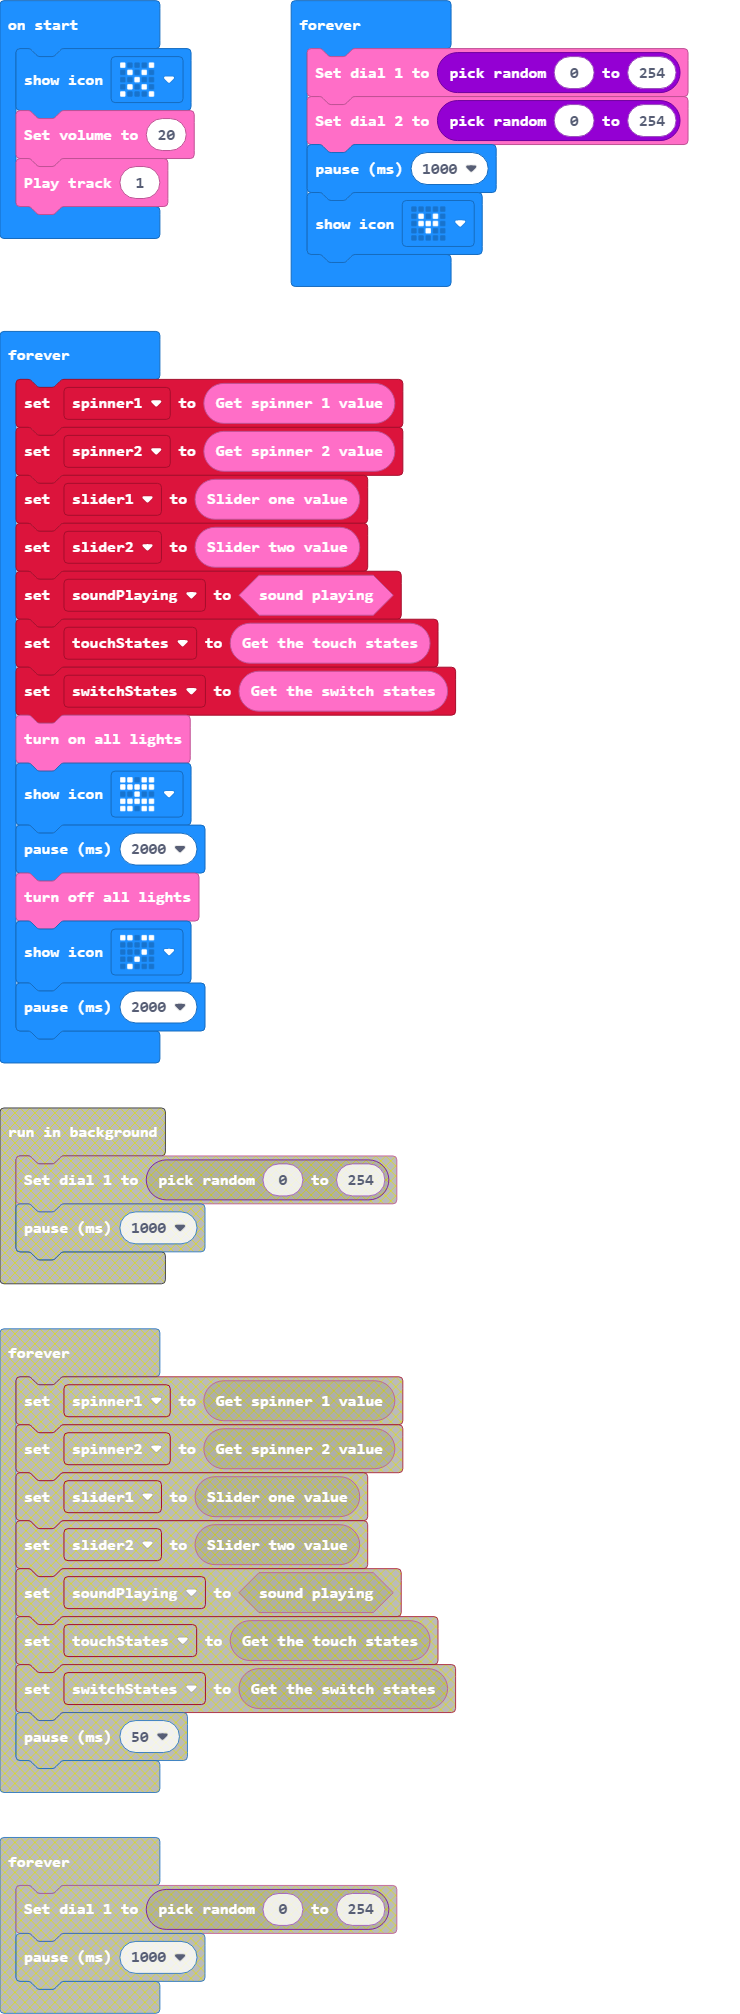
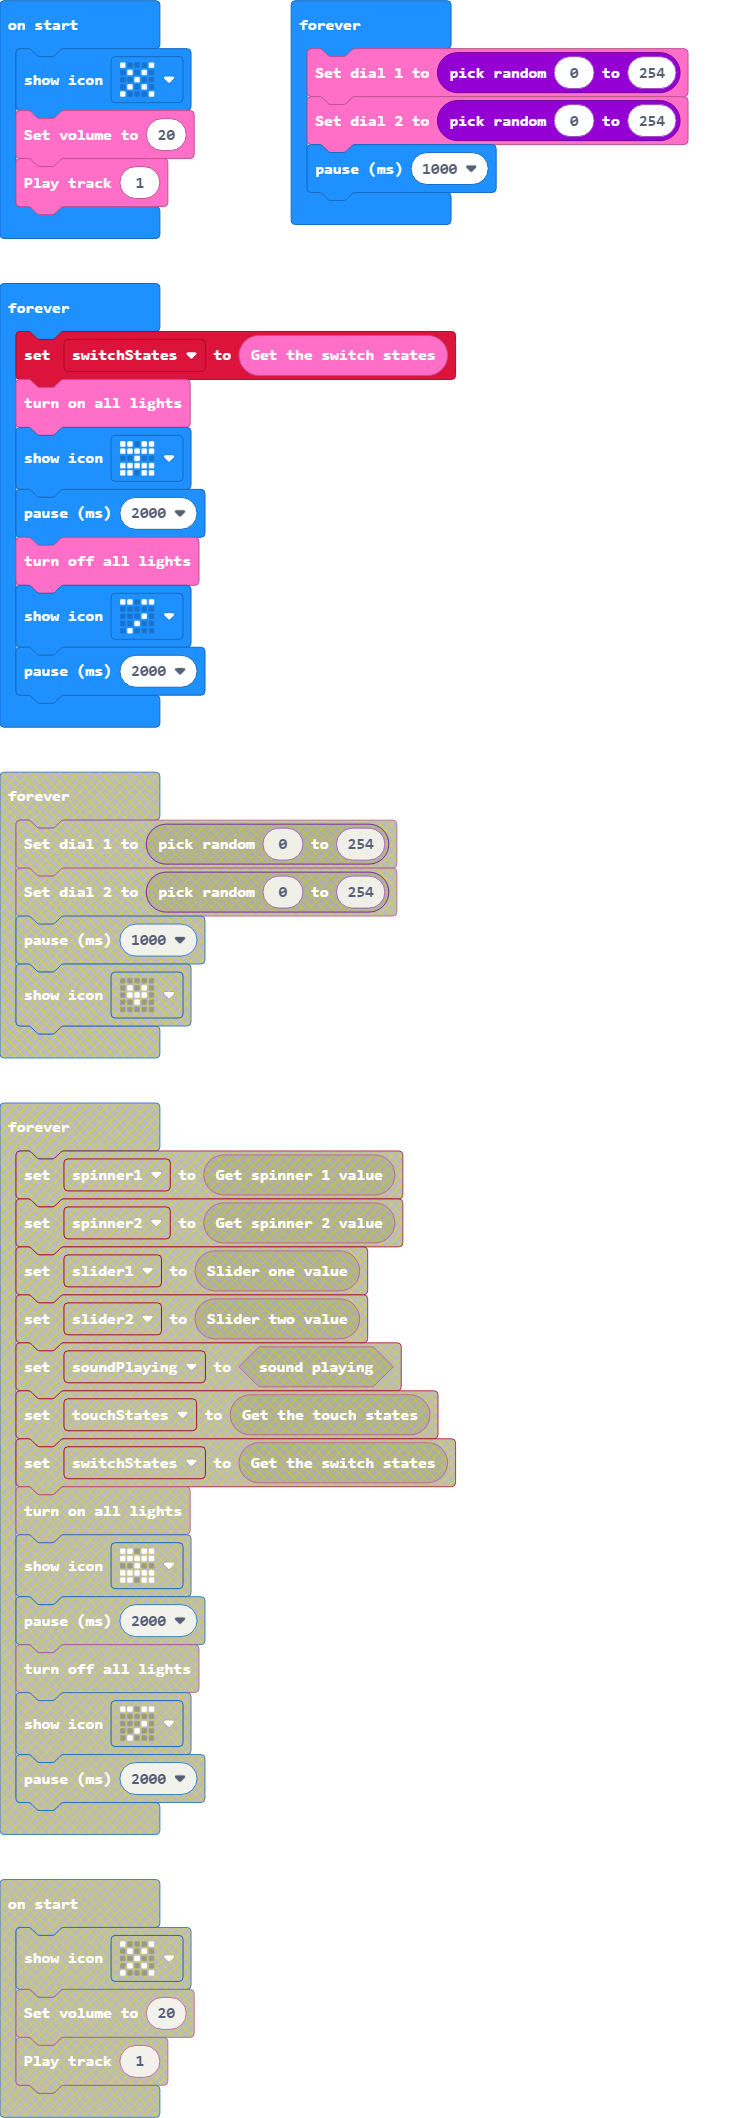
more simple

diff --git a/i2c.ts b/i2c.ts
@@ -1,7 +1,7 @@
 namespace RainbowSparkleUnicorn {
 
     const ESP32_I2C_ADDR = 4;
-    const readBufferLength = 40; //32;
+    const readBufferLength = 128; //40; //32;
 
     //i2c freq=100000
     //let currentRecievedMessage = "";
@@ -26,7 +26,7 @@ namespace RainbowSparkleUnicorn {
     //    i2cTXrateMs = TXrateMs;
     // }    
 
-    export function _sendMessage(message: string): void {             
+    export function _sendMessage(message: string): void {
 
         pins.digitalWritePin(DigitalPin.P8, 1);
         basic.pause(1);
@@ -35,44 +35,27 @@ namespace RainbowSparkleUnicorn {
 
         pins.digitalWritePin(DigitalPin.P8, 0);
         basic.pause(1);
-   }
-
-     function sendMessage(message: string): void {
-
-         let num = 0;
-         num = message.length
-         let buf2 = pins.createBuffer(num + 4);
-         let crcbuf = pins.createBuffer(num);
-         buf2[0] = 2
-         buf2[1] = num + 4
-         for (let j = 0; j <= num - 1; j++) {
-             buf2[j + 2] = message.charCodeAt(j)
-             crcbuf[j] = message.charCodeAt(j)
-         }
-         buf2[num + 2] = calcCRC8(crcbuf, num)
-         buf2[num + 3] = 4
-
-         pins.i2cWriteBuffer(ESP32_I2C_ADDR, buf2, false);
-
     }
 
-    // function checkMessageTOBEREMOVED(message: string): boolean
-    //  {
-    //     if (message.isEmpty() == true){
-    //         return false;
-    //     }
-    //     if (message.length < 3) {
-    //         return false;
-    //     }
-    //     let X = message.split(",");
-    //     let Y = X.length;
-    //      if (Y < 2){
-    //         return false;
-    //     }
-    //     return true;
-    //  }
+    function sendMessage(message: string): void {
 
-    export function _readMessage(message: string): string {   
+        let num = 0;
+        num = message.length
+        let buf2 = pins.createBuffer(num + 4);
+        let crcbuf = pins.createBuffer(num);
+        buf2[0] = 2
+        buf2[1] = num + 4
+        for (let j = 0; j <= num - 1; j++) {
+            buf2[j + 2] = message.charCodeAt(j)
+            crcbuf[j] = message.charCodeAt(j)
+        }
+        buf2[num + 2] = calcCRC8(crcbuf, num)
+        buf2[num + 3] = 4
+
+        pins.i2cWriteBuffer(ESP32_I2C_ADDR, buf2, false);
+    }
+
+    export function _readMessage(message: string): string {
 
         pins.digitalWritePin(DigitalPin.P8, 1);
         basic.pause(1);
@@ -80,47 +63,21 @@ namespace RainbowSparkleUnicorn {
         //send first
         sendMessage(message);
 
-        //pause
-        basic.pause(1);
-
-        let startIndex = 0;
         let i2cBuffer = pins.i2cReadBuffer(ESP32_I2C_ADDR, readBufferLength, false);
-
-        for (let k = 0; k <= readBufferLength; k++) {
-            // find packet start
-            if (i2cBuffer[k] == 2) {
-                startIndex = k
-            }
-        }
-
-        //let a4 = 0;
-        //let a3 = 0;
-        let a1 = 0;
-        let a2 = 0;
-
-        a1 = i2cBuffer[startIndex];
-        let contentLength = i2cBuffer[startIndex+1]-4;
-
-        //serial.writeValue("contentLength", contentLength);
-
-        let currentRecievedMessage = "";
-
-        if (contentLength > 0){
-
-            for (let l = 0; l < contentLength ; l++) {
-                a2 =  i2cBuffer[l+2] ;
-
-                if (a2 != 255 && a2 != 0){
-                    currentRecievedMessage = currentRecievedMessage + String.fromCharCode(a2);
-                }
-            }
-
-            currentRecievedMessage = currentRecievedMessage.trim();
-
-        }
 
         pins.digitalWritePin(DigitalPin.P8, 0);
         basic.pause(1);
+
+        let currentRecievedMessage = "";
+
+        for (let k = 0; k <= readBufferLength; k++) {
+
+            if (i2cBuffer[k] != 255 && i2cBuffer[k] != 0) {
+                currentRecievedMessage = currentRecievedMessage + String.fromCharCode(i2cBuffer[k]);
+            }
+        }
+
+        //serial.writeLine("currentRecievedMessage:" + currentRecievedMessage);
 
         return currentRecievedMessage;
     }
@@ -148,7 +105,7 @@ namespace RainbowSparkleUnicorn {
     //     basic.pause(i2cGapMessageTimeMs);
     // })
 
-    function calcCRC8(data :Buffer, length :number) :number {
+    function calcCRC8(data: Buffer, length: number): number {
         let crc = 0;
         let extract;
         let sum;

diff --git a/main.ts b/main.ts
@@ -1,10 +1,4 @@
 let switchStates = ""
-let touchStates = ""
-let soundPlaying = false
-let slider2 = 0
-let slider1 = 0
-let spinner2 = 0
-let spinner1 = 0
 basic.showIcon(IconNames.No)
 RainbowSparkleUnicorn.Sound.setVolume(20)
 RainbowSparkleUnicorn.Sound.playTrack(1)
@@ -12,15 +6,8 @@ basic.forever(function () {
     RainbowSparkleUnicorn.Controls.dial1(randint(0, 254))
     RainbowSparkleUnicorn.Controls.dial2(randint(0, 254))
     basic.pause(1000)
-    basic.showIcon(IconNames.SmallHeart)
 })
 basic.forever(function () {
-    spinner1 = RainbowSparkleUnicorn.Controls.encoder1value()
-    spinner2 = RainbowSparkleUnicorn.Controls.encoder2value()
-    slider1 = RainbowSparkleUnicorn.Controls.Slider1()
-    slider2 = RainbowSparkleUnicorn.Controls.Slider2()
-    soundPlaying = RainbowSparkleUnicorn.Sound.playingSound()
-    touchStates = RainbowSparkleUnicorn.Touch.getTouchStates()
     switchStates = RainbowSparkleUnicorn.Switch.getSwitchStates()
     RainbowSparkleUnicorn.Light.turnAllOn()
     basic.showIcon(IconNames.Butterfly)
